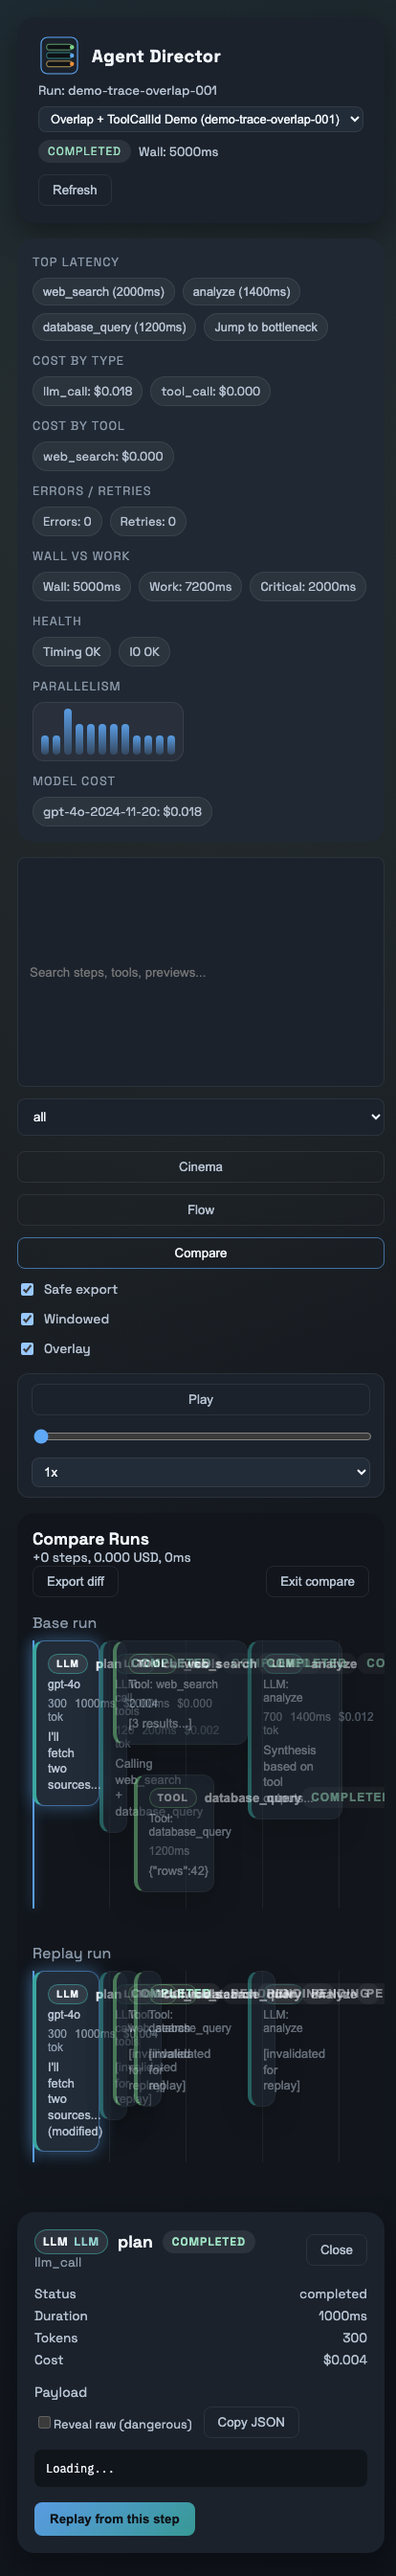
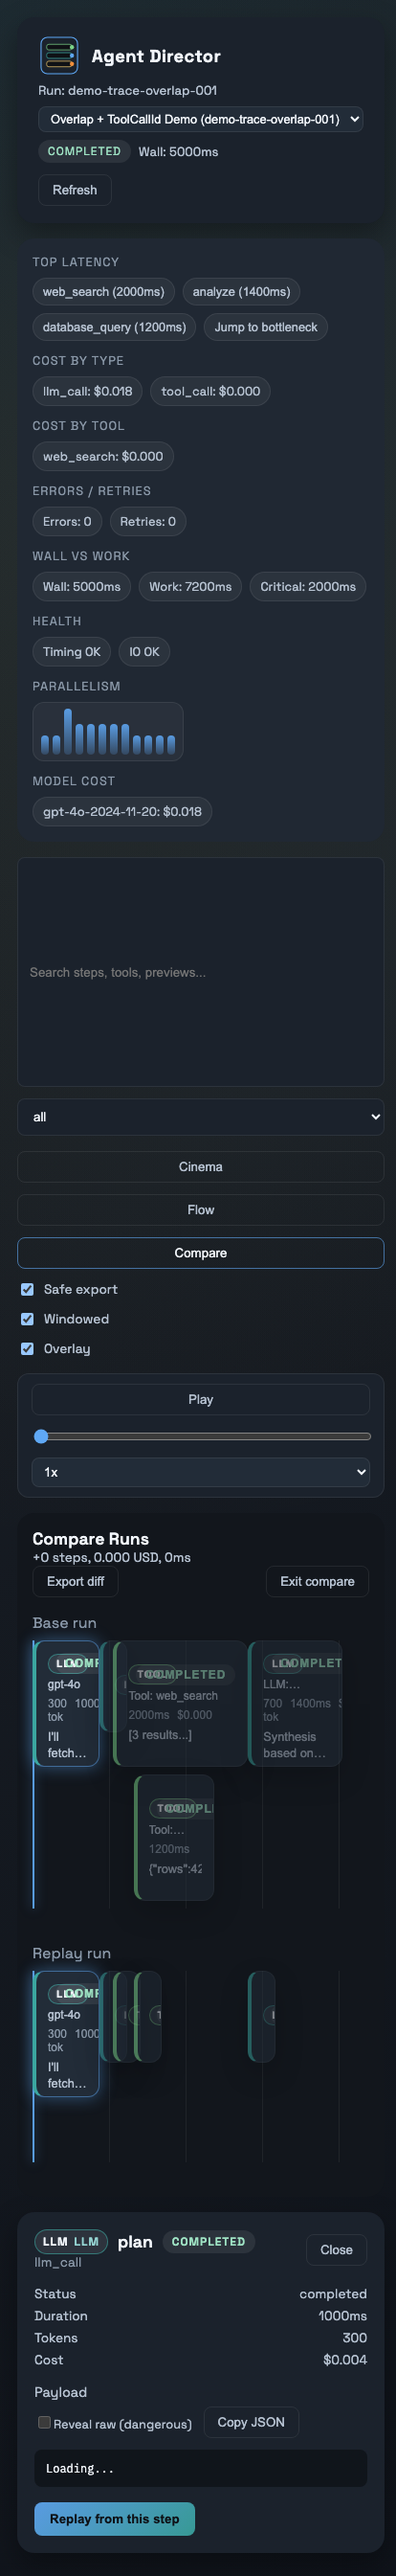
fix: clamp timeline step cards

diff --git a/ui/src/styles/main.css b/ui/src/styles/main.css
@@ -642,6 +642,8 @@ pre {
   box-shadow: var(--shadow);
   cursor: pointer;
   transition: transform var(--transition-fast), box-shadow var(--transition-fast), border-color var(--transition-fast);
+  overflow: hidden;
+  height: 132px;
 }
 
 .step-card:hover {
@@ -707,6 +709,7 @@ pre {
   align-items: center;
   font-weight: 600;
   margin-bottom: 4px;
+  gap: 8px;
 }
 
 .step-title-group,
@@ -714,6 +717,19 @@ pre {
   display: inline-flex;
   gap: 8px;
   align-items: center;
+  min-width: 0;
+  flex: 1;
+}
+
+.step-title {
+  min-width: 0;
+  overflow: hidden;
+  text-overflow: ellipsis;
+  white-space: nowrap;
+}
+
+.step-card-header .status-pill {
+  flex-shrink: 0;
 }
 
 .step-badge {
@@ -777,6 +793,10 @@ pre {
   font-size: 0.75rem;
   color: var(--text-secondary);
   margin-bottom: 6px;
+  display: -webkit-box;
+  -webkit-line-clamp: 1;
+  -webkit-box-orient: vertical;
+  overflow: hidden;
 }
 
 .step-metrics {
@@ -791,6 +811,20 @@ pre {
   font-size: 0.8rem;
   color: var(--text-secondary);
   line-height: 1.3;
+  display: -webkit-box;
+  -webkit-line-clamp: 2;
+  -webkit-box-orient: vertical;
+  overflow: hidden;
+}
+
+.step-compact {
+  height: 96px;
+}
+
+.step-compact .step-subtitle,
+.step-compact .step-metrics,
+.step-compact .step-preview {
+  display: none;
 }
 
 .step-llm_call {

diff --git a/ui/src/components/CinemaMode/StepCard.tsx b/ui/src/components/CinemaMode/StepCard.tsx
@@ -29,10 +29,11 @@ export default function StepCard({
   const preview = step.preview?.outputPreview ?? step.preview?.inputPreview ?? '';
   const diffClass = diffStatus ? `step-diff-${diffStatus}` : '';
   const variantClass = variant === 'ghost' ? 'step-ghost' : '';
+  const compactClass = interval.wPct < 8 ? 'step-compact' : '';
   return (
     <button
       type="button"
-      className={`step-card step-${step.type} step-${playbackState} ${selected ? 'step-selected' : ''} ${diffClass} ${variantClass}`}
+      className={`step-card step-${step.type} step-${playbackState} ${selected ? 'step-selected' : ''} ${diffClass} ${variantClass} ${compactClass}`}
       data-step-id={step.id}
       aria-label={`${step.name} (${step.type})`}
       aria-pressed={selected}

diff --git a/ui/eslint.config.js b/ui/eslint.config.js
@@ -4,6 +4,9 @@ import react from 'eslint-plugin-react';
 import reactHooks from 'eslint-plugin-react-hooks';
 
 export default [
+  {
+    ignores: ['dist/**', 'playwright-report/**', 'test-results/**', '.lighthouseci/**'],
+  },
   js.configs.recommended,
   ...tseslint.configs.recommended,
   {
